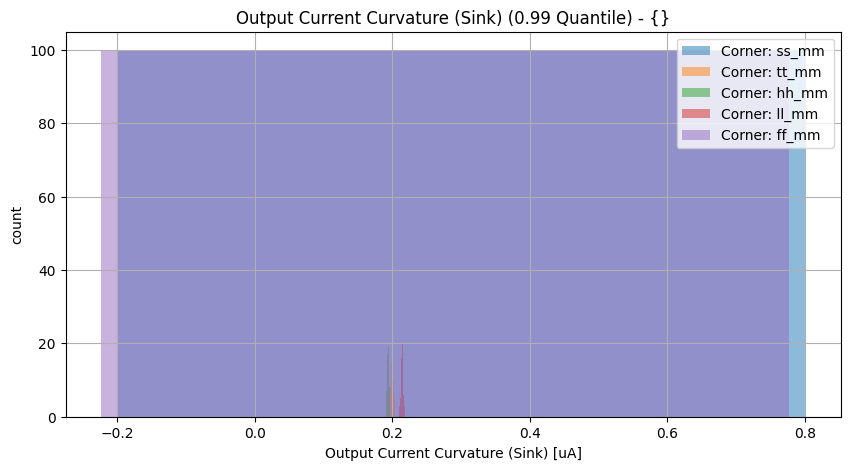
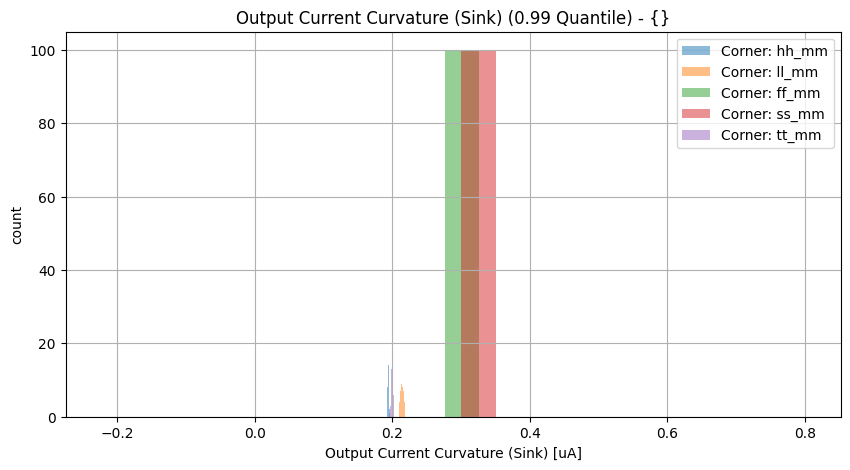
Jenkins update

diff --git a/vthref/vthref/Readme.md b/vthref/vthref/Readme.md
@@ -1,4 +1,4 @@
-22.11.2022, 07:38:04
+22.11.2022, 08:17:59
 
 # Vth Current Reference
 
@@ -30,8 +30,8 @@
 
 | Parameter | Min (Spec. / Sim.) |      | Max (Sim. / Spec.) | Unit | Checks (total/pass/fail/NaN) | Comment |
 | :-------- | -----------------: | :--: | :----------------- | :--- | :--------------------------- | ------- |
-| Output Current Curvature (Sink) | 0.0 / 0.192 | <svg height="20" width="150"><polyline points="3.0,3,3.0,17,147.0,17,147.0,3" style="fill:none;stroke:gray;stroke-width:1" /><polyline points="75.0,10.0,75.0,17" style="fill:none;stroke:gray;stroke-width:1" /><polyline points="30.608385600000002,10.0,46.319332800000005,10.0" style="stroke:green;stroke-width:2" /><circle cx="30.608385600000002" cy="10.0" r="3" style="fill:green;stroke:green;stroke-width:0" /><circle cx="46.319332800000005" cy="10.0" r="3" style="fill:green;stroke:green;stroke-width:0" /></svg> | 0.301 / 1.0 | uA | 500/100.0%/0.0%/0.0% |  |
-| Output Current Curvature (Source) | 0.0 / 0.195 | <svg height="20" width="150"><polyline points="3.0,3,3.0,17,147.0,17,147.0,3" style="fill:none;stroke:gray;stroke-width:1" /><polyline points="75.0,10.0,75.0,17" style="fill:none;stroke:gray;stroke-width:1" /><polyline points="31.031500800000003,10.0,45.9679728,10.0" style="stroke:green;stroke-width:2" /><circle cx="31.031500800000003" cy="10.0" r="3" style="fill:green;stroke:green;stroke-width:0" /><circle cx="45.9679728" cy="10.0" r="3" style="fill:green;stroke:green;stroke-width:0" /></svg> | 0.298 / 1.0 | uA | 500/100.0%/0.0%/0.0% |  |
+| Output Current Curvature (Sink) | 0.0 / 0.191 | <svg height="20" width="150"><polyline points="3.0,3,3.0,17,147.0,17,147.0,3" style="fill:none;stroke:gray;stroke-width:1" /><polyline points="75.0,10.0,75.0,17" style="fill:none;stroke:gray;stroke-width:1" /><polyline points="30.5224032,10.0,46.319332800000005,10.0" style="stroke:green;stroke-width:2" /><circle cx="30.5224032" cy="10.0" r="3" style="fill:green;stroke:green;stroke-width:0" /><circle cx="46.319332800000005" cy="10.0" r="3" style="fill:green;stroke:green;stroke-width:0" /></svg> | 0.301 / 1.0 | uA | 500/100.0%/0.0%/0.0% |  |
+| Output Current Curvature (Source) | 0.0 / 0.194 | <svg height="20" width="150"><polyline points="3.0,3,3.0,17,147.0,17,147.0,3" style="fill:none;stroke:gray;stroke-width:1" /><polyline points="75.0,10.0,75.0,17" style="fill:none;stroke:gray;stroke-width:1" /><polyline points="30.962265600000002,10.0,45.9679728,10.0" style="stroke:green;stroke-width:2" /><circle cx="30.962265600000002" cy="10.0" r="3" style="fill:green;stroke:green;stroke-width:0" /><circle cx="45.9679728" cy="10.0" r="3" style="fill:green;stroke:green;stroke-width:0" /></svg> | 0.298 / 1.0 | uA | 500/100.0%/0.0%/0.0% |  |
 
 <br>
 
@@ -50,18 +50,18 @@
 
 | Parameter | Min (Spec. / Sim.) |      | Max (Sim. / Spec.) | Unit | Checks (total/pass/fail/NaN) | Comment |
 | :-------- | -----------------: | :--: | :----------------- | :--- | :--------------------------- | ------- |
-| Output Current Curvature (Sink) | 0.0 / 0.193 | <svg height="20" width="150"><polyline points="3.0,3,3.0,17,36.037767674746846,17,36.037767674746846,3" style="fill:none;stroke:gray;stroke-width:1" /><polyline points="19.518883837373423,10.0,19.518883837373423,17" style="fill:none;stroke:gray;stroke-width:1" /><polyline points="9.383653279640843,10.0,147.0,10.0" style="stroke:red;stroke-width:2" /><circle cx="9.383653279640843" cy="10.0" r="3" style="fill:red;stroke:red;stroke-width:0" /><circle cx="147.0" cy="10.0" r="3" style="fill:red;stroke:red;stroke-width:0" /></svg> | 4.359 / 1.0 | uA | 500/99.6%/0.4%/0.0% |  |
-| Output Current Curvature (Source) | 0.0 / 0.198 | <svg height="20" width="150"><polyline points="3.0,3,3.0,17,36.558196554552,17,36.558196554552,3" style="fill:none;stroke:gray;stroke-width:1" /><polyline points="19.779098277276,10.0,19.779098277276,17" style="fill:none;stroke:gray;stroke-width:1" /><polyline points="9.640529492411304,10.0,147.0,10.0" style="stroke:red;stroke-width:2" /><circle cx="9.640529492411304" cy="10.0" r="3" style="fill:red;stroke:red;stroke-width:0" /><circle cx="147.0" cy="10.0" r="3" style="fill:red;stroke:red;stroke-width:0" /></svg> | 4.291 / 1.0 | uA | 500/99.6%/0.4%/0.0% |  |
+| Output Current Curvature (Sink) | 0.0 / 0.193 | <svg height="20" width="150"><polyline points="3.0,3,3.0,17,36.0532453351886,17,36.0532453351886,3" style="fill:none;stroke:gray;stroke-width:1" /><polyline points="19.5266226675943,10.0,19.5266226675943,17" style="fill:none;stroke:gray;stroke-width:1" /><polyline points="9.383589798207641,10.0,147.0,10.0" style="stroke:red;stroke-width:2" /><circle cx="9.383589798207641" cy="10.0" r="3" style="fill:red;stroke:red;stroke-width:0" /><circle cx="147.0" cy="10.0" r="3" style="fill:red;stroke:red;stroke-width:0" /></svg> | 4.357 / 1.0 | uA | 500/99.6%/0.4%/0.0% |  |
+| Output Current Curvature (Source) | 0.0 / 0.199 | <svg height="20" width="150"><polyline points="3.0,3,3.0,17,36.57688231652507,17,36.57688231652507,3" style="fill:none;stroke:gray;stroke-width:1" /><polyline points="19.788441158262536,10.0,19.788441158262536,17" style="fill:none;stroke:gray;stroke-width:1" /><polyline points="9.68186001937666,10.0,147.0,10.0" style="stroke:red;stroke-width:2" /><circle cx="9.68186001937666" cy="10.0" r="3" style="fill:red;stroke:red;stroke-width:0" /><circle cx="147.0" cy="10.0" r="3" style="fill:red;stroke:red;stroke-width:0" /></svg> | 4.289 / 1.0 | uA | 500/99.6%/0.4%/0.0% |  |
 
 <details><summary>Show specification violation details...</summary>
 
 > **FAIL:** Specification violation for parameter "Output Current Curvature (Sink)":<br>
-> **FAIL:** group:ll_mm file:work/sim/vthref/vthref_tb.4_dcext/batch_2/ll_mm/dc.csv Index:9 <br>
-> **FAIL:** group:ll_mm file:work/sim/vthref/vthref_tb.4_dcext/batch_4/ll_mm/dc.csv Index:16 <br>
+> **FAIL:** group:ll_mm file:work/sim/vthref/vthref_tb.4_dcext/batch_2/ll_mm/dc.csv Index:5 <br>
+> **FAIL:** group:ll_mm file:work/sim/vthref/vthref_tb.4_dcext/batch_4/ll_mm/dc.csv Index:13 <br>
 
 > **FAIL:** Specification violation for parameter "Output Current Curvature (Source)":<br>
-> **FAIL:** group:ll_mm file:work/sim/vthref/vthref_tb.4_dcext/batch_2/ll_mm/dc.csv Index:9 <br>
-> **FAIL:** group:ll_mm file:work/sim/vthref/vthref_tb.4_dcext/batch_4/ll_mm/dc.csv Index:16 <br>
+> **FAIL:** group:ll_mm file:work/sim/vthref/vthref_tb.4_dcext/batch_2/ll_mm/dc.csv Index:5 <br>
+> **FAIL:** group:ll_mm file:work/sim/vthref/vthref_tb.4_dcext/batch_4/ll_mm/dc.csv Index:13 <br>
 </details><br>
 
 

diff --git a/vthref/vthref/specReport.md b/vthref/vthref/specReport.md
@@ -13,8 +13,8 @@
 
 | Parameter | Min (Spec. / Sim.) |      | Max (Sim. / Spec.) | Unit | Checks (total/pass/fail/NaN) | Comment |
 | :-------- | -----------------: | :--: | :----------------- | :--- | :--------------------------- | ------- |
-| Output Current Curvature (Sink) | 0.0 / 0.192 | <svg height="20" width="150"><polyline points="3.0,3,3.0,17,147.0,17,147.0,3" style="fill:none;stroke:gray;stroke-width:1" /><polyline points="75.0,10.0,75.0,17" style="fill:none;stroke:gray;stroke-width:1" /><polyline points="30.608385600000002,10.0,46.319332800000005,10.0" style="stroke:green;stroke-width:2" /><circle cx="30.608385600000002" cy="10.0" r="3" style="fill:green;stroke:green;stroke-width:0" /><circle cx="46.319332800000005" cy="10.0" r="3" style="fill:green;stroke:green;stroke-width:0" /></svg> | 0.301 / 1.0 | uA | 500/100.0%/0.0%/0.0% |  |
-| Output Current Curvature (Source) | 0.0 / 0.195 | <svg height="20" width="150"><polyline points="3.0,3,3.0,17,147.0,17,147.0,3" style="fill:none;stroke:gray;stroke-width:1" /><polyline points="75.0,10.0,75.0,17" style="fill:none;stroke:gray;stroke-width:1" /><polyline points="31.031500800000003,10.0,45.9679728,10.0" style="stroke:green;stroke-width:2" /><circle cx="31.031500800000003" cy="10.0" r="3" style="fill:green;stroke:green;stroke-width:0" /><circle cx="45.9679728" cy="10.0" r="3" style="fill:green;stroke:green;stroke-width:0" /></svg> | 0.298 / 1.0 | uA | 500/100.0%/0.0%/0.0% |  |
+| Output Current Curvature (Sink) | 0.0 / 0.191 | <svg height="20" width="150"><polyline points="3.0,3,3.0,17,147.0,17,147.0,3" style="fill:none;stroke:gray;stroke-width:1" /><polyline points="75.0,10.0,75.0,17" style="fill:none;stroke:gray;stroke-width:1" /><polyline points="30.5224032,10.0,46.319332800000005,10.0" style="stroke:green;stroke-width:2" /><circle cx="30.5224032" cy="10.0" r="3" style="fill:green;stroke:green;stroke-width:0" /><circle cx="46.319332800000005" cy="10.0" r="3" style="fill:green;stroke:green;stroke-width:0" /></svg> | 0.301 / 1.0 | uA | 500/100.0%/0.0%/0.0% |  |
+| Output Current Curvature (Source) | 0.0 / 0.194 | <svg height="20" width="150"><polyline points="3.0,3,3.0,17,147.0,17,147.0,3" style="fill:none;stroke:gray;stroke-width:1" /><polyline points="75.0,10.0,75.0,17" style="fill:none;stroke:gray;stroke-width:1" /><polyline points="30.962265600000002,10.0,45.9679728,10.0" style="stroke:green;stroke-width:2" /><circle cx="30.962265600000002" cy="10.0" r="3" style="fill:green;stroke:green;stroke-width:0" /><circle cx="45.9679728" cy="10.0" r="3" style="fill:green;stroke:green;stroke-width:0" /></svg> | 0.298 / 1.0 | uA | 500/100.0%/0.0%/0.0% |  |
 
 <br>
 
@@ -33,17 +33,17 @@
 
 | Parameter | Min (Spec. / Sim.) |      | Max (Sim. / Spec.) | Unit | Checks (total/pass/fail/NaN) | Comment |
 | :-------- | -----------------: | :--: | :----------------- | :--- | :--------------------------- | ------- |
-| Output Current Curvature (Sink) | 0.0 / 0.193 | <svg height="20" width="150"><polyline points="3.0,3,3.0,17,36.037767674746846,17,36.037767674746846,3" style="fill:none;stroke:gray;stroke-width:1" /><polyline points="19.518883837373423,10.0,19.518883837373423,17" style="fill:none;stroke:gray;stroke-width:1" /><polyline points="9.383653279640843,10.0,147.0,10.0" style="stroke:red;stroke-width:2" /><circle cx="9.383653279640843" cy="10.0" r="3" style="fill:red;stroke:red;stroke-width:0" /><circle cx="147.0" cy="10.0" r="3" style="fill:red;stroke:red;stroke-width:0" /></svg> | 4.359 / 1.0 | uA | 500/99.6%/0.4%/0.0% |  |
-| Output Current Curvature (Source) | 0.0 / 0.198 | <svg height="20" width="150"><polyline points="3.0,3,3.0,17,36.558196554552,17,36.558196554552,3" style="fill:none;stroke:gray;stroke-width:1" /><polyline points="19.779098277276,10.0,19.779098277276,17" style="fill:none;stroke:gray;stroke-width:1" /><polyline points="9.640529492411304,10.0,147.0,10.0" style="stroke:red;stroke-width:2" /><circle cx="9.640529492411304" cy="10.0" r="3" style="fill:red;stroke:red;stroke-width:0" /><circle cx="147.0" cy="10.0" r="3" style="fill:red;stroke:red;stroke-width:0" /></svg> | 4.291 / 1.0 | uA | 500/99.6%/0.4%/0.0% |  |
+| Output Current Curvature (Sink) | 0.0 / 0.193 | <svg height="20" width="150"><polyline points="3.0,3,3.0,17,36.0532453351886,17,36.0532453351886,3" style="fill:none;stroke:gray;stroke-width:1" /><polyline points="19.5266226675943,10.0,19.5266226675943,17" style="fill:none;stroke:gray;stroke-width:1" /><polyline points="9.383589798207641,10.0,147.0,10.0" style="stroke:red;stroke-width:2" /><circle cx="9.383589798207641" cy="10.0" r="3" style="fill:red;stroke:red;stroke-width:0" /><circle cx="147.0" cy="10.0" r="3" style="fill:red;stroke:red;stroke-width:0" /></svg> | 4.357 / 1.0 | uA | 500/99.6%/0.4%/0.0% |  |
+| Output Current Curvature (Source) | 0.0 / 0.199 | <svg height="20" width="150"><polyline points="3.0,3,3.0,17,36.57688231652507,17,36.57688231652507,3" style="fill:none;stroke:gray;stroke-width:1" /><polyline points="19.788441158262536,10.0,19.788441158262536,17" style="fill:none;stroke:gray;stroke-width:1" /><polyline points="9.68186001937666,10.0,147.0,10.0" style="stroke:red;stroke-width:2" /><circle cx="9.68186001937666" cy="10.0" r="3" style="fill:red;stroke:red;stroke-width:0" /><circle cx="147.0" cy="10.0" r="3" style="fill:red;stroke:red;stroke-width:0" /></svg> | 4.289 / 1.0 | uA | 500/99.6%/0.4%/0.0% |  |
 
 <details><summary>Show specification violation details...</summary>
 
 > **FAIL:** Specification violation for parameter "Output Current Curvature (Sink)":<br>
-> **FAIL:** group:ll_mm file:work/sim/vthref/vthref_tb.4_dcext/batch_2/ll_mm/dc.csv Index:9 <br>
-> **FAIL:** group:ll_mm file:work/sim/vthref/vthref_tb.4_dcext/batch_4/ll_mm/dc.csv Index:16 <br>
+> **FAIL:** group:ll_mm file:work/sim/vthref/vthref_tb.4_dcext/batch_2/ll_mm/dc.csv Index:5 <br>
+> **FAIL:** group:ll_mm file:work/sim/vthref/vthref_tb.4_dcext/batch_4/ll_mm/dc.csv Index:13 <br>
 
 > **FAIL:** Specification violation for parameter "Output Current Curvature (Source)":<br>
-> **FAIL:** group:ll_mm file:work/sim/vthref/vthref_tb.4_dcext/batch_2/ll_mm/dc.csv Index:9 <br>
-> **FAIL:** group:ll_mm file:work/sim/vthref/vthref_tb.4_dcext/batch_4/ll_mm/dc.csv Index:16 <br>
+> **FAIL:** group:ll_mm file:work/sim/vthref/vthref_tb.4_dcext/batch_2/ll_mm/dc.csv Index:5 <br>
+> **FAIL:** group:ll_mm file:work/sim/vthref/vthref_tb.4_dcext/batch_4/ll_mm/dc.csv Index:13 <br>
 </details><br>
 

diff --git a/bmbg/bmbgota/Readme.md b/bmbg/bmbgota/Readme.md
@@ -1,4 +1,4 @@
-22.11.2022, 07:38:04
+22.11.2022, 08:17:59
 
 # Beta-Multiplier Bandgap OTA
 

diff --git a/bmbg/bmbg/Readme.md b/bmbg/bmbg/Readme.md
@@ -1,4 +1,4 @@
-22.11.2022, 07:38:04
+22.11.2022, 08:17:59
 
 # Beta-Multiplier Bandgap
 

diff --git a/riosc/riosc/Readme.md b/riosc/riosc/Readme.md
@@ -1,4 +1,4 @@
-22.11.2022, 07:38:04
+22.11.2022, 08:17:59
 
 # Ring Oscillator
 

diff --git a/ldo/ldo/Readme.md b/ldo/ldo/Readme.md
@@ -1,4 +1,4 @@
-22.11.2022, 07:38:04
+22.11.2022, 08:17:59
 
 # 1.8 V LDO
 

diff --git a/ldo/ldoota/Readme.md b/ldo/ldoota/Readme.md
@@ -1,4 +1,4 @@
-22.11.2022, 07:38:04
+22.11.2022, 08:17:59
 
 # LDO OP
 
